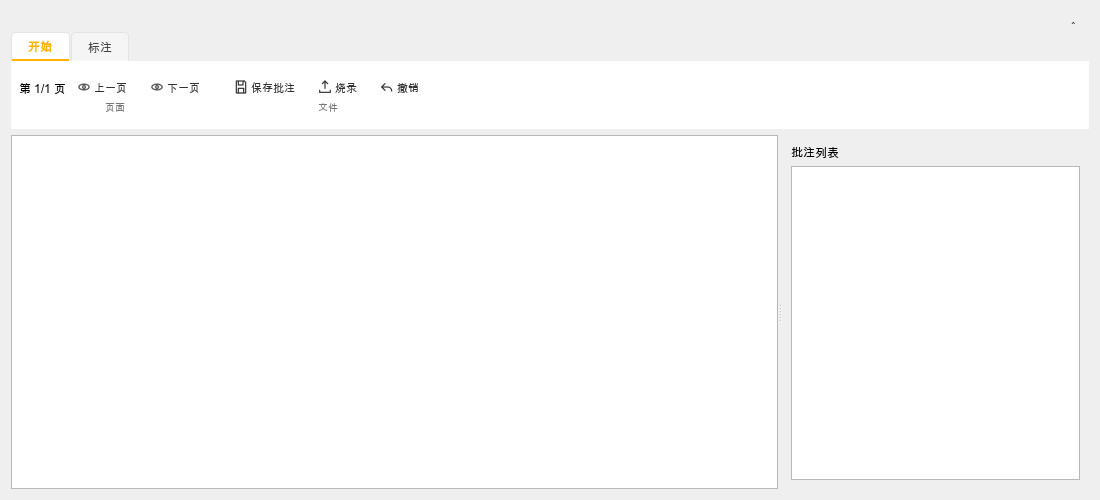
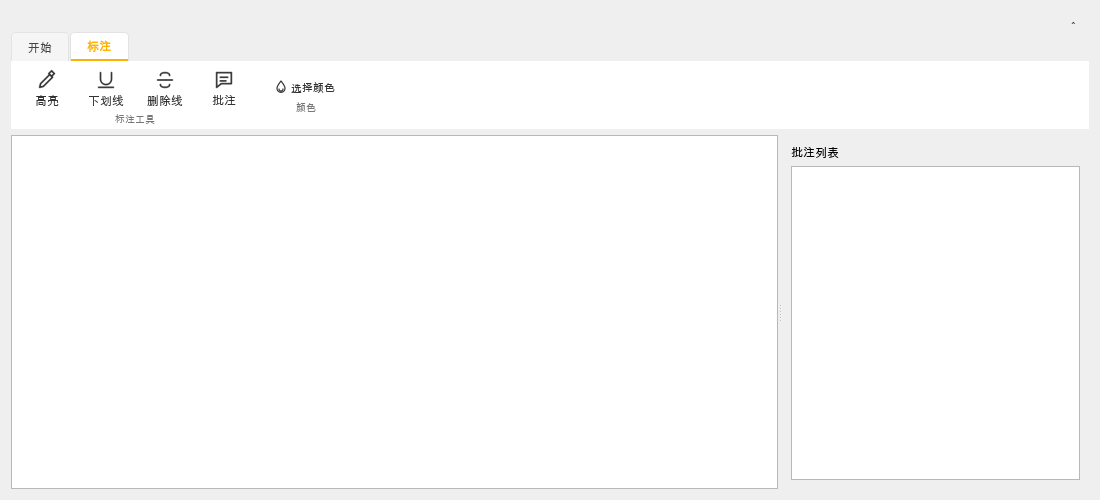
feat(ui): 单边框、快捷栏拖拽排序与 PDF 图标细化

Changed region(s): [[0.0, 0.06, 0.4018, 0.24]]

diff --git a/beeoffice/app.py b/beeoffice/app.py
@@ -55,6 +55,7 @@ from datetime import datetime
 from PySide6.QtWidgets import (
     QMainWindow, QStatusBar, QLabel, QMessageBox, QFileDialog,
     QDialog, QVBoxLayout, QTextEdit, QWidget, QToolBar, QToolButton, QMenu, QApplication,
+    QListWidget, QListWidgetItem, QDialogButtonBox, QAbstractItemView,
 )
 from PySide6.QtGui import QAction, QKeySequence, QShortcut
 from PySide6.QtCore import Qt, QTimer, Signal, QFileSystemWatcher, QSize, QSettings
@@ -1062,6 +1063,7 @@ class BeeApp(QMainWindow):
     def _build_quick_access_bar(self):
         """WPS 风格快捷工具栏：文件入口 + 新建/打开/保存/命令面板。"""
         bar = QToolBar("快捷工具栏", self)
+        self.quick_toolbar = bar
         bar.setObjectName("WpsQuickBar")
         bar.setMovable(False)
         bar.setIconSize(QSize(18, 18))
@@ -1107,6 +1109,8 @@ class BeeApp(QMainWindow):
             bar.addAction(act)
             self._quick_actions[key] = (act, text)
 
+        self._quick_end_sep = bar.addSeparator()
+
         # 快捷栏自定义：勾选/取消按钮，QSettings 记忆
         gear = QToolButton()
         gear.setText("⚙")
@@ -1124,9 +1128,48 @@ class BeeApp(QMainWindow):
                 lambda checked, k=key, a=act: self._toggle_quick_action(k, a, checked)
             )
             gear_menu.addAction(check)
+        gear_menu.addSeparator()
+        gear_menu.addAction("调整顺序…", self._customize_quick_order)
         gear.setMenu(gear_menu)
-        bar.addSeparator()
         bar.addWidget(gear)
+        saved_order = self._quick_settings.value("order", [], type=list) or []
+        ordered = [k for k in saved_order if k in self._quick_actions]
+        for key in ordered:
+            bar.removeAction(self._quick_actions[key][0])
+        for key in ordered:
+            bar.insertAction(self._quick_end_sep, self._quick_actions[key][0])
+
+    def _customize_quick_order(self):
+        """拖拽调整快捷按钮顺序并持久化。"""
+        keys = list(self._quick_actions.keys())
+        saved = self._quick_settings.value("order", keys, type=list) or []
+        order = [k for k in saved if k in keys]
+        order += [k for k in keys if k not in order]
+
+        dlg = QDialog(self)
+        dlg.setWindowTitle("调整快捷工具栏顺序")
+        layout = QVBoxLayout(dlg)
+        lst = QListWidget(dlg)
+        lst.setDragDropMode(QAbstractItemView.InternalMove)
+        for key in order:
+            item = QListWidgetItem(self._quick_actions[key][1])
+            item.setData(Qt.UserRole, key)
+            lst.addItem(item)
+        layout.addWidget(lst)
+        btns = QDialogButtonBox(
+            QDialogButtonBox.Ok | QDialogButtonBox.Cancel, dlg
+        )
+        btns.accepted.connect(dlg.accept)
+        btns.rejected.connect(dlg.reject)
+        layout.addWidget(btns)
+        if dlg.exec() != QDialog.Accepted:
+            return
+        new_order = [lst.item(i).data(Qt.UserRole) for i in range(lst.count())]
+        self._quick_settings.setValue("order", new_order)
+        for key in new_order:
+            act = self._quick_actions[key][0]
+            self.quick_toolbar.removeAction(act)
+            self.quick_toolbar.insertAction(self._quick_end_sep, act)
 
     def _toggle_quick_action(self, key, action, visible):
         action.setVisible(visible)

diff --git a/beeoffice/plugins/pdf_annotator.py b/beeoffice/plugins/pdf_annotator.py
@@ -199,19 +199,19 @@ class PDFAnnotator(QWidget):
         page_group = self._ribbon.add_group(page_home, "页面")
         self._page_label = QLabel("第 1/1 页")
         page_group.add_widget(self._page_label)
-        page_group.add_small_button("上一页", "上一页", self._prev_page, icon_name="view")
-        page_group.add_small_button("下一页", "下一页", self._next_page, icon_name="view")
+        page_group.add_small_button("上一页", "上一页", self._prev_page, icon_name="prev")
+        page_group.add_small_button("下一页", "下一页", self._next_page, icon_name="next")
         file_group = self._ribbon.add_group(page_home, "文件")
         file_group.add_small_button("保存批注", "保存批注", self._save_annotations, icon_name="save")
-        file_group.add_small_button("烧录", "烧录", self._burn_annotations, icon_name="export")
+        file_group.add_small_button("烧录", "烧录", self._burn_annotations, icon_name="burn")
         file_group.add_small_button("撤销", "撤销", self._undo_annotation, icon_name="undo")
 
         page_anno = self._ribbon.add_tab("标注")
         anno_group = self._ribbon.add_group(page_anno, "标注工具")
         for label, tool, icon_name in (
-            ("高亮", "highlight", "data"),
-            ("下划线", "underline", "page"),
-            ("删除线", "strikethrough", "page"),
+            ("高亮", "highlight", "highlight"),
+            ("下划线", "underline", "underline"),
+            ("删除线", "strikethrough", "strike"),
             ("批注", "text", "comment"),
         ):
             def _select(checked=False, tt=tool):
@@ -219,7 +219,7 @@ class PDFAnnotator(QWidget):
             btn = anno_group.add_large_button(label, label, _select, icon_name=icon_name)
             btn.setCheckable(True)
         color_group = self._ribbon.add_group(page_anno, "颜色")
-        color_group.add_small_button("选择颜色", "选择颜色", self._choose_color, icon_name="home")
+        color_group.add_small_button("选择颜色", "选择颜色", self._choose_color, icon_name="color")
 
         layout.addWidget(self._ribbon)
         splitter=QSplitter(Qt.Horizontal)

diff --git a/beeoffice/plugins/beesheet_style_mixin.py b/beeoffice/plugins/beesheet_style_mixin.py
@@ -218,7 +218,7 @@ class StyleMixin:
                 lambda checked=False, c=color: self._apply_cell_fill(c)
             )
 
-        border_menu = menu.addMenu("边框")
+        border_menu = menu.addMenu("外边框")
         for name, color, width in (
             ("无边框", None, 0),
             ("细黑", QColor("#333333"), 1),
@@ -235,6 +235,18 @@ class StyleMixin:
                     self._apply_cell_border(c, w)
             )
 
+        side_menu = menu.addMenu("单边框")
+        for side, label in (
+            ("top", "上边框"), ("bottom", "下边框"),
+            ("left", "左边框"), ("right", "右边框"),
+        ):
+            act = side_menu.addAction(label)
+            act.setIcon(color_icon(QColor("#333333")))
+            act.triggered.connect(
+                lambda checked=False, s=side:
+                    self._apply_cell_border(QColor("#333333"), 1, (s,))
+            )
+
         menu.addSeparator()
         menu.addAction("清除底纹/边框").triggered.connect(self._clear_cell_fill_border)
         menu.exec(self.table_view.viewport().mapToGlobal(QPoint(4, 4)))
@@ -243,16 +255,18 @@ class StyleMixin:
         self._apply_format_to_selection("bg", color)
         self._set_status("已应用底纹", 2000)
 
-    def _apply_cell_border(self, color, width):
+    def _apply_cell_border(self, color, width, sides=None):
+        sides = tuple(sides) if sides else ("top", "bottom", "left", "right")
         self._apply_format_to_selection("border", color)
         self._apply_format_to_selection("border_width", width)
+        self._apply_format_to_selection("border_sides", sides)
         self._set_status("已应用边框", 2000)
 
     def _clear_cell_fill_border(self):
         indexes = self._get_selected_indexes()
         for idx in indexes:
             fmt = self._cell_formats.get((idx.row(), idx.column()), {})
-            for key in ("bg", "border", "border_width"):
+            for key in ("bg", "border", "border_width", "border_sides"):
                 fmt.pop(key, None)
             self.model.dataChanged.emit(idx, idx)
         self._set_status("已清除底纹/边框", 2000)

diff --git a/beeoffice/ribbon_icons.py b/beeoffice/ribbon_icons.py
@@ -48,6 +48,14 @@ _ICONS = {
     "undo": '<path d="M9 7L4 12l5 5"/><path d="M4 12h9a6 6 0 0 1 6 6"/>',
     "redo": '<path d="M15 7l5 5-5 5"/><path d="M20 12h-9a6 6 0 0 0-6 6"/>',
     "command": '<rect x="3" y="3" width="18" height="18" rx="4"/><path d="M8 9h8M8 13h5"/>',
+    "highlight": '<path d="M4 20l4-1 10-10-3-3L5 16z"/><path d="M14 5l3 3 3-3-3-3z"/>',
+    "underline": '<path d="M6 4v7a6 6 0 0 0 12 0V4"/><path d="M4 20h16"/>',
+    "strike": '<path d="M4 12h16"/><path d="M7 7c0-2 2-3 5-3s5 1 5 3M7 17c0 2 2 3 5 3s5-1 5-3"/>',
+    "text": '<path d="M5 4h14M12 4v16M8 20h8"/>',
+    "color": '<path d="M12 3s6 7 6 11a6 6 0 0 1-12 0c0-4 6-11 6-11z"/><path d="M9 15a3 3 0 0 0 6 0"/>',
+    "burn": '<path d="M12 22c4 0 7-3 7-7 0-5-7-13-7-13S5 10 5 15c0 4 3 7 7 7z"/><path d="M12 18c1.5 0 3-1.2 3-3 0-2-3-5-3-5s-3 3-3 5c0 1.8 1.5 3 3 3z"/>',
+    "prev": '<path d="M15 5l-7 7 7 7"/>',
+    "next": '<path d="M9 5l7 7-7 7"/>',
 }
 
 

diff --git a/beeoffice/plugins/beesheet_delegate.py b/beeoffice/plugins/beesheet_delegate.py
@@ -164,7 +164,16 @@ class CellEditorDelegate(QStyledItemDelegate):
             pen.setWidth(int(fmt.get("border_width", 1)))
             painter.setPen(pen)
             painter.setBrush(Qt.NoBrush)
-            painter.drawRect(option.rect.adjusted(1, 1, -2, -2))
+            rect = option.rect.adjusted(1, 1, -2, -2)
+            sides = fmt.get("border_sides") or ("top", "bottom", "left", "right")
+            if "top" in sides:
+                painter.drawLine(rect.topLeft(), rect.topRight())
+            if "bottom" in sides:
+                painter.drawLine(rect.bottomLeft(), rect.bottomRight())
+            if "left" in sides:
+                painter.drawLine(rect.topLeft(), rect.bottomLeft())
+            if "right" in sides:
+                painter.drawLine(rect.topRight(), rect.bottomRight())
             painter.restore()
 
         if hasattr(self._sheet, '_cell_comments'):

diff --git a/tests/qt/test_beesheet_ribbon.py b/tests/qt/test_beesheet_ribbon.py
@@ -99,10 +99,12 @@ def test_border_fill_formats(qtbot):
     qtbot.wait(10)
     sheet._apply_cell_fill(QColor("#E3F2FD"))
     sheet._apply_cell_border(QColor("#1565C0"), 2)
+    sheet._apply_cell_border(QColor("#1565C0"), 1, ("top",))
     fmt = sheet._cell_formats[(0, 0)]
     assert fmt["bg"].name() == "#e3f2fd"
     assert fmt["border"].name() == "#1565c0"
-    assert fmt["border_width"] == 2
+    assert fmt["border_width"] == 1
+    assert fmt["border_sides"] == ("top",)
     assert sheet.model.data(sheet.model.index(0, 0), Qt.BackgroundRole).name() == "#e3f2fd"
     sheet._clear_cell_fill_border()
     assert "bg" not in sheet._cell_formats[(0, 0)]

diff --git a/docs/BeeSheet-分类功能区-2026-11-13.md b/docs/BeeSheet-分类功能区-2026-11-13.md
@@ -81,7 +81,8 @@
 表格工具页签新增“边框/底纹”：
 
 - 底纹：琥珀/浅黄/浅绿/浅蓝/浅粉/浅灰/深蓝/橙色；
-- 边框：细黑/中黑/细蓝/细橙/粗橙；
+- 外边框：细黑/中黑/细蓝/细橙/粗橙；
+- 单边框：上/下/左/右独立设置；
 - 支持清除；
 - 单元格背景与边框由 model/delegate 实际绘制。
 
@@ -90,7 +91,8 @@
 - 主窗口快捷栏新增“打印”“分享”；
 - 打印调用当前页面的 `_print_preview`，不支持时提示；
 - 分享将当前文件路径复制到剪贴板；
-- ⚙ 菜单可勾选/取消快捷按钮，QSettings 记忆。
+- ⚙ 菜单可勾选/取消快捷按钮，QSettings 记忆；
+“调整顺序…”支持拖拽排序并持久化。
 
 ## 主窗口 WPS 入口
 

diff --git a/CHANGELOG.md b/CHANGELOG.md
@@ -27,7 +27,10 @@
 - PDF 批注器改为 WPS 式 Ribbon（开始/标注）；
 - BeeWrite/BeeShow 已有 Ribbon 复用统一图标工厂；
 - 新增边框/底纹图库与单元格边框绘制；
-- 主窗口新增打印/分享入口与快捷栏自定义（QSettings）。
+- 主窗口新增打印/分享入口与快捷栏自定义（QSettings）；
+- 边框图库支持上/下/左/右单边框；
+- 快捷栏“调整顺序”支持拖拽排序；
+- PDF 标注工具图标化。
 - 隐藏/展开功能区按钮保留；
 - 删除旧的无引用翻译键 8 个。
 
